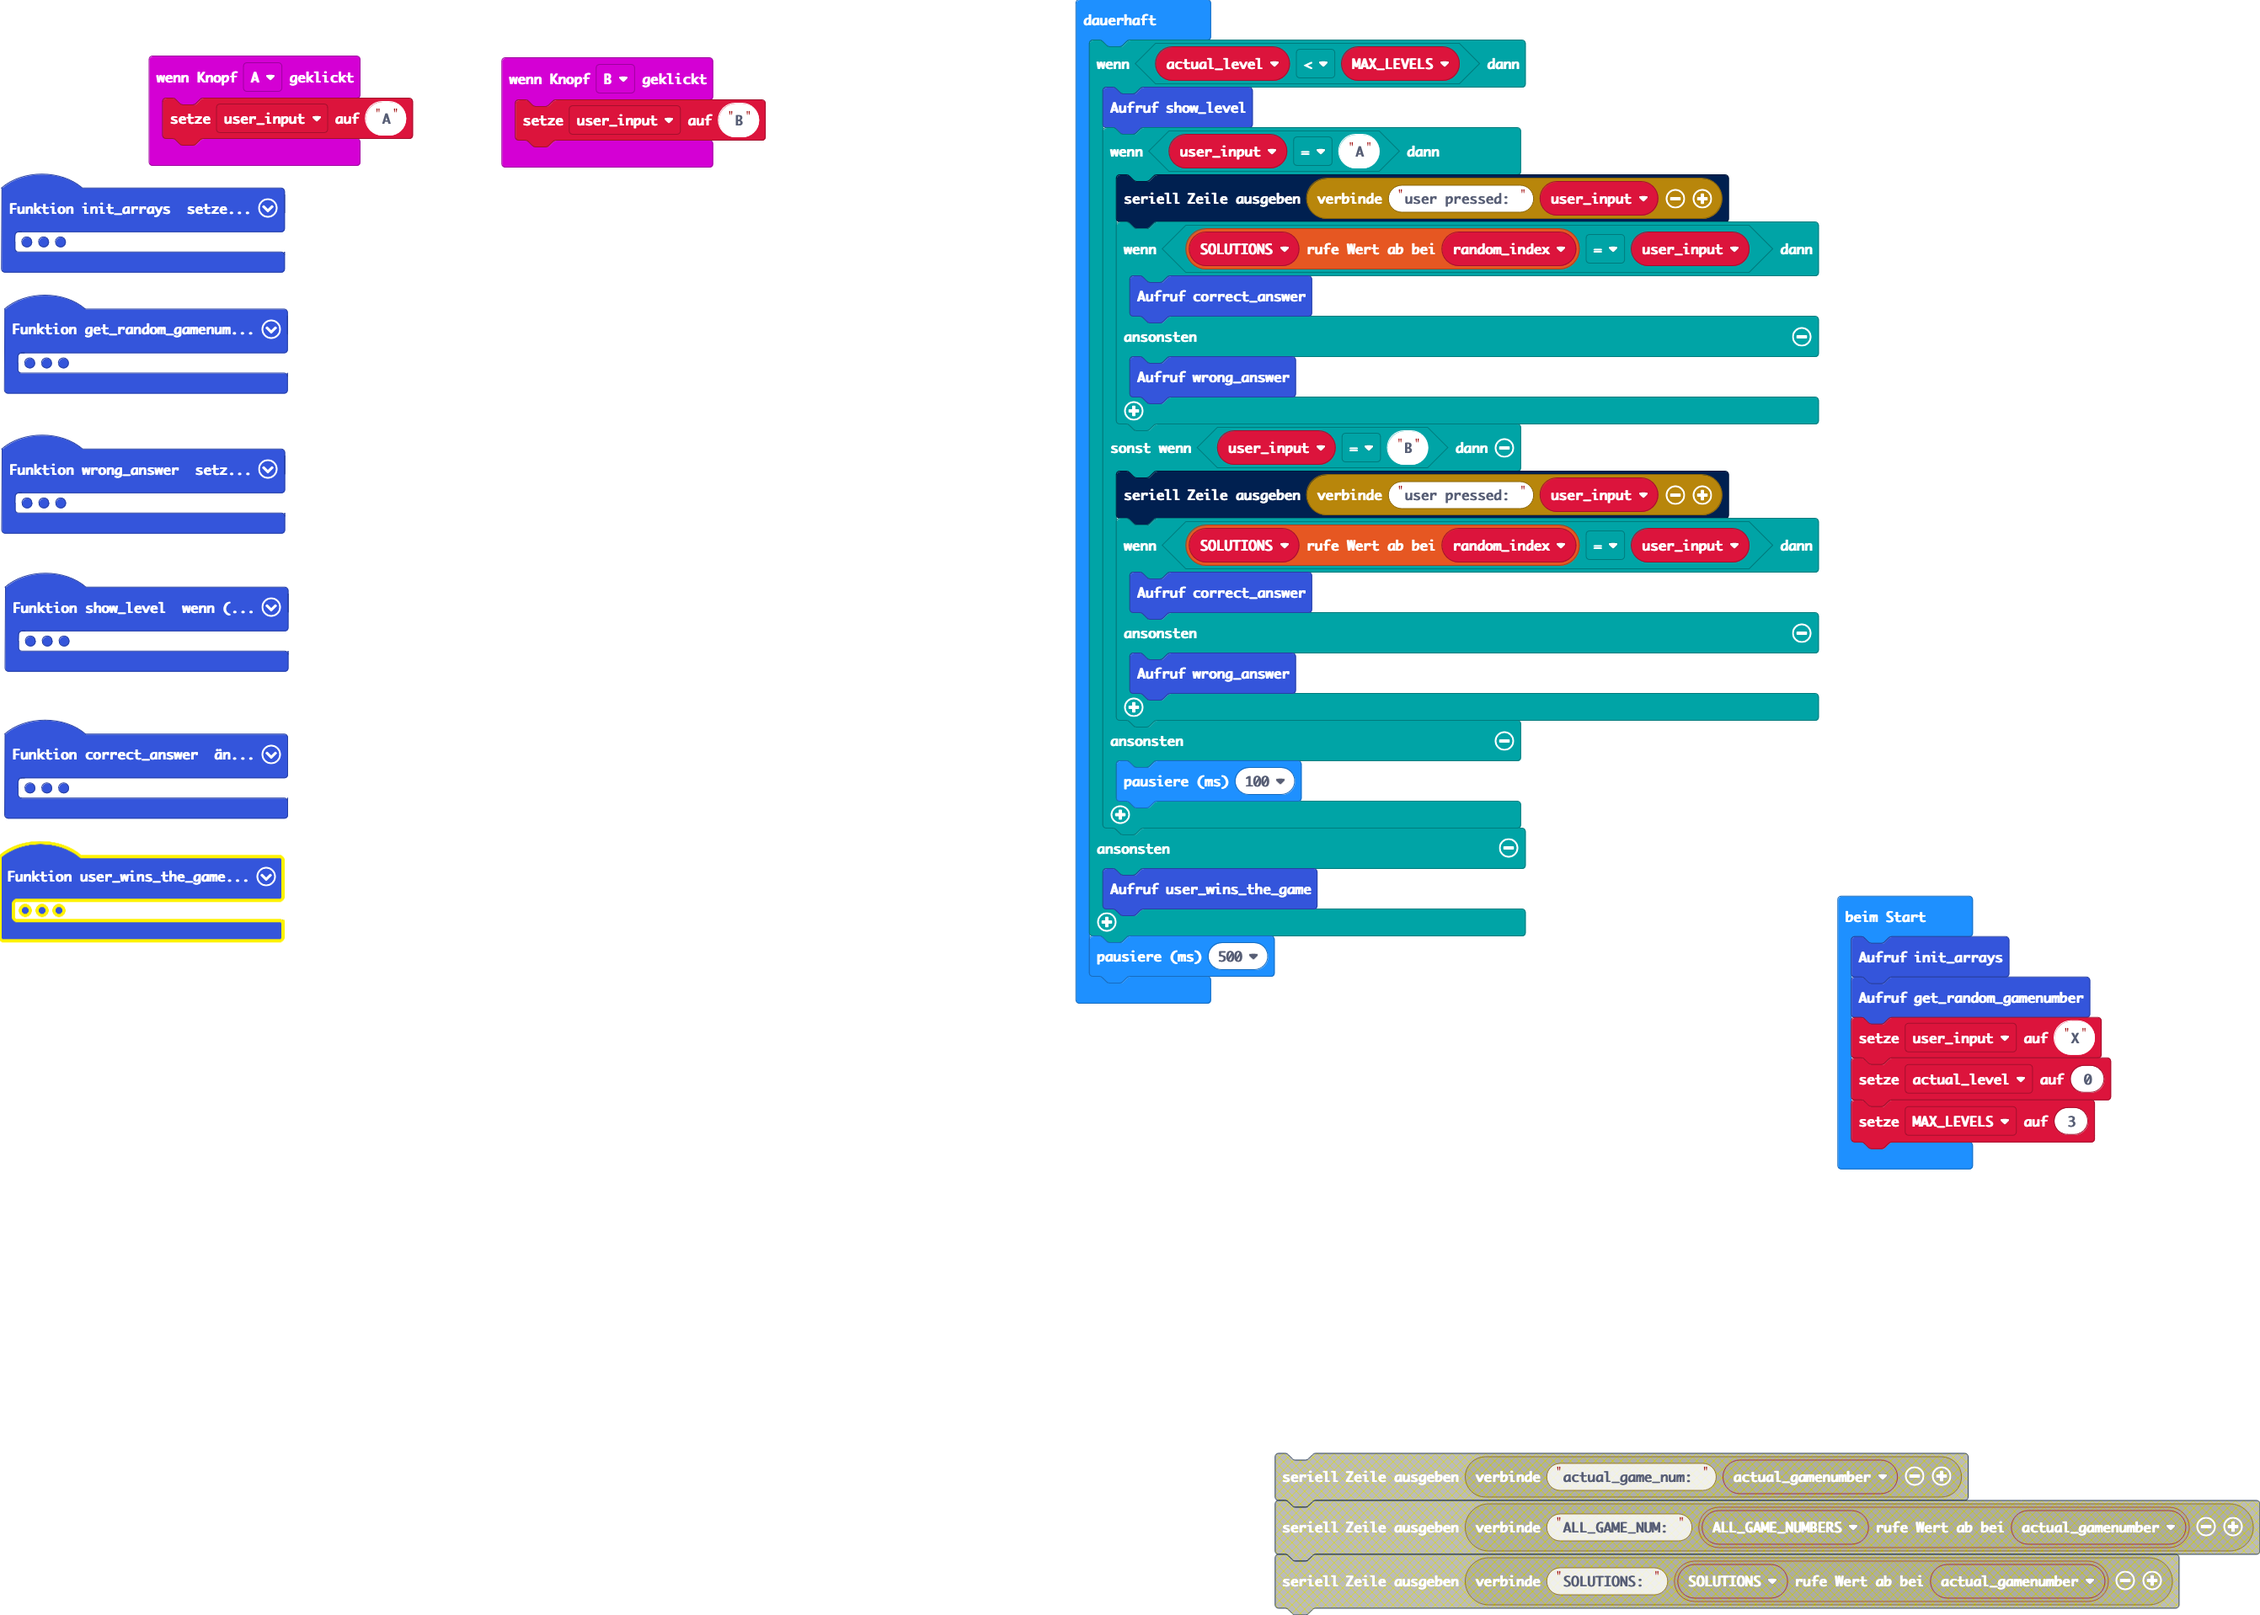
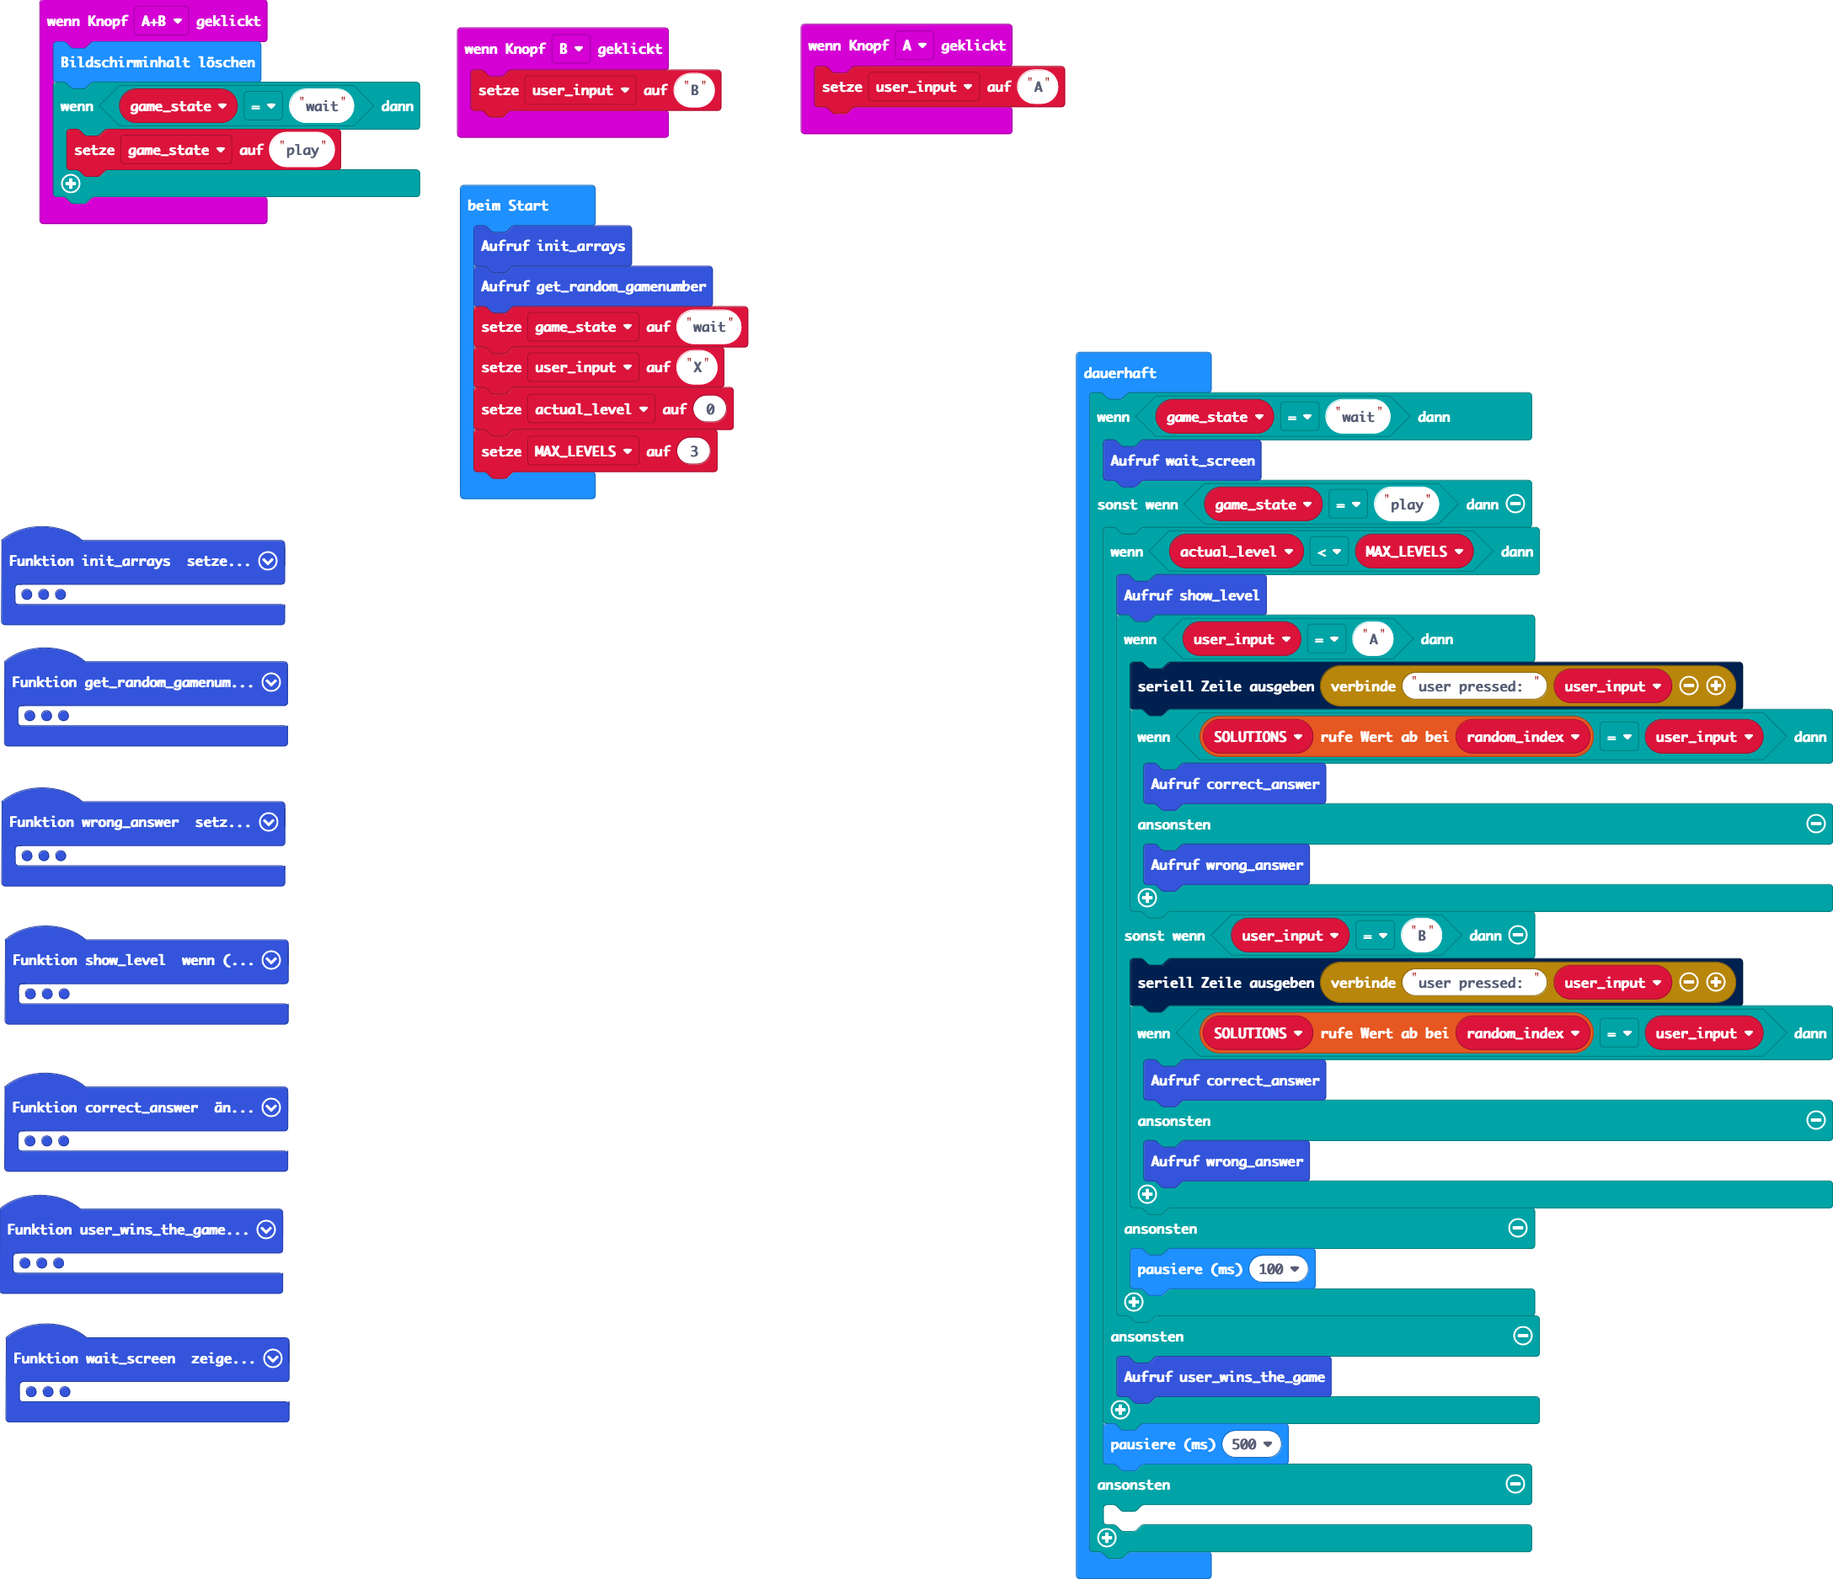
added game states. todo: add timer, sound

diff --git a/main.ts b/main.ts
@@ -28,7 +28,8 @@ function wrong_answer () {
 }
 function user_wins_the_game () {
     basic.showIcon(IconNames.Happy)
-    basic.pause(1000)
+    basic.pause(3500)
+    game_state = "wait"
 }
 function correct_answer () {
     actual_level += 1
@@ -91,6 +92,30 @@ function show_level () {
 input.onButtonPressed(Button.A, function () {
     user_input = "A"
 })
+function wait_screen () {
+    basic.showLeds(`
+        . . . . .
+        . . . . .
+        . . # . .
+        . . . . .
+        . . . . .
+        `)
+    basic.pause(50)
+    basic.showLeds(`
+        . . . . .
+        . . . . .
+        . . . . .
+        . . . . .
+        . . . . .
+        `)
+    basic.pause(50)
+}
+input.onButtonPressed(Button.AB, function () {
+    basic.clearScreen()
+    if (game_state == "wait") {
+        game_state = "play"
+    }
+})
 input.onButtonPressed(Button.B, function () {
     user_input = "B"
 })
@@ -105,33 +130,41 @@ let ALL_GAME_NUMBERS: number[] = []
 let SOLUTIONS: string[] = []
 let actual_level = 0
 let user_input = ""
+let game_state = ""
 init_arrays()
 get_random_gamenumber()
+game_state = "wait"
 user_input = "X"
 actual_level = 0
 let MAX_LEVELS = 3
 basic.forever(function () {
-    if (actual_level < MAX_LEVELS) {
-        show_level()
-        if (user_input == "A") {
-            serial.writeLine("user pressed: " + user_input)
-            if (SOLUTIONS[random_index] == user_input) {
-                correct_answer()
+    if (game_state == "wait") {
+        wait_screen()
+    } else if (game_state == "play") {
+        if (actual_level < MAX_LEVELS) {
+            show_level()
+            if (user_input == "A") {
+                serial.writeLine("user pressed: " + user_input)
+                if (SOLUTIONS[random_index] == user_input) {
+                    correct_answer()
+                } else {
+                    wrong_answer()
+                }
+            } else if (user_input == "B") {
+                serial.writeLine("user pressed: " + user_input)
+                if (SOLUTIONS[random_index] == user_input) {
+                    correct_answer()
+                } else {
+                    wrong_answer()
+                }
             } else {
-                wrong_answer()
-            }
-        } else if (user_input == "B") {
-            serial.writeLine("user pressed: " + user_input)
-            if (SOLUTIONS[random_index] == user_input) {
-                correct_answer()
-            } else {
-                wrong_answer()
+                basic.pause(100)
             }
         } else {
-            basic.pause(100)
+            user_wins_the_game()
         }
+        basic.pause(500)
     } else {
-        user_wins_the_game()
+    	
     }
-    basic.pause(500)
 })
